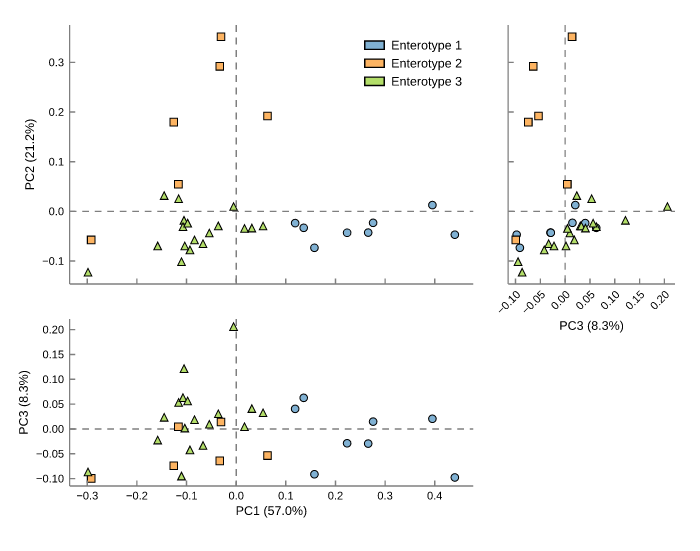
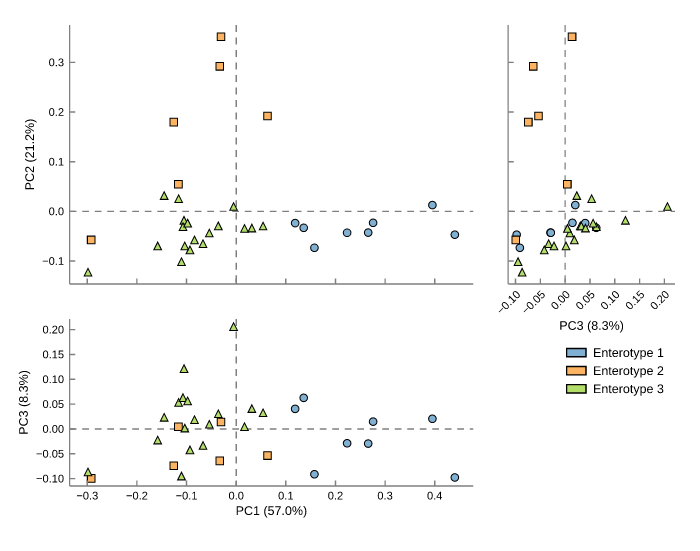
Draw the PCA and PCoA legend in the empty bottom-right cell
With all three panels shown, the legend of the groups goes in the empty
cell below the PC3 against PC2 panel instead of inside the main panel,
where it could cover samples. The legend position is taken within that
cell; a legend larger than the cell makes the figure taller.

Changed region(s): [[0.81, 0.6171, 0.96, 0.7405], [0.51, 0.0617, 0.66, 0.1543]]

diff --git a/crates/stamp-plot/src/pca_plot.rs b/crates/stamp-plot/src/pca_plot.rs
@@ -4,8 +4,9 @@ use stamp_core::stats::pca::{pca_leading, Pca};
 use stamp_core::{GroupProfile, MultiGroupProfile, Profile};
 
 use crate::axes::{
-    group_color, legend, marker_styled, repeated_colors_note, scaled_ticks, x_axis, y_axis,
-    y_axis_width, Frame, LabelRotation, LegendPosition, Marker, AXES_COLOR, INCH,
+    group_color, legend, marker_styled, repeated_colors_note, scaled_ticks, swatch_legend_at,
+    swatch_legend_origin, swatch_legend_size, x_axis, y_axis, y_axis_width, Frame, LabelRotation,
+    LegendPosition, Marker, AXES_COLOR, INCH,
 };
 use crate::axis::Ticks;
 use crate::figure::{Color, Figure, Stroke};
@@ -527,13 +528,15 @@ pub fn plot_ordination(
     }
 
     let dashed = Stroke::dashed(AXES_COLOR, 1.0, 5.0, 4.0);
+    // Draws one panel and returns the y coordinate below its x axis.
     let panel = |figure: &mut Figure,
                  frame: Frame,
                  cx: usize,
                  cy: usize,
                  x_label: bool,
                  y_label: bool,
-                 rotate: bool| {
+                 rotate: bool|
+     -> f64 {
         let (x, y) = (
             frame.x_scale(ticks[cx].min, ticks[cx].max),
             frame.y_scale(ticks[cy].min, ticks[cy].max),
@@ -588,7 +591,7 @@ pub fn plot_ordination(
                 figure.line(&[(*p, frame.bottom), (*p, frame.bottom - 4.0)], stroke);
             }
         }
-        x_axis(
+        let below = x_axis(
             figure,
             &frame,
             &x_ticks,
@@ -613,11 +616,16 @@ pub fn plot_ordination(
                 figure.line(&[(frame.left, p), (frame.left + 4.0, p)], stroke);
             }
         }
+        below
     };
 
     // Neighbouring panels share an axis: PC2 with the panel beside the main
     // one, PC1 with the panel beneath it.
     panel(&mut figure, main, 0, 1, !beneath, true, false);
+    // With all three panels the cell at the bottom right is empty, and the
+    // legend of the groups goes there: `spare` is that cell, from below the
+    // x axis of the panel above it.
+    let mut spare = None;
     if beside {
         let frame = Frame {
             left: main.right + gap,
@@ -625,7 +633,7 @@ pub fn plot_ordination(
             right: main.right + gap + beside_w,
             bottom: main.bottom,
         };
-        panel(
+        let below = panel(
             &mut figure,
             frame,
             2,
@@ -634,6 +642,14 @@ pub fn plot_ordination(
             false,
             options.rotate_pc3_labels,
         );
+        if beneath {
+            spare = Some(Frame {
+                left: frame.left,
+                top: below,
+                right: frame.right,
+                bottom: (main.bottom + gap + beneath_h).max(below),
+            });
+        }
     }
     if beneath {
         let frame = Frame {
@@ -655,7 +671,23 @@ pub fn plot_ordination(
             .enumerate()
             .map(|(i, g)| (g.clone(), data.group_color(i)))
             .collect();
-        legend(&mut figure, &main, &entries, options.legend);
+        match spare {
+            // The place is taken within the empty cell. A legend larger
+            // than the cell is kept below the axis above it and clear of
+            // the panel to its left where the figure has the room, and
+            // the figure grows downwards to hold it.
+            Some(cell) => {
+                if let Some((x, y)) = swatch_legend_origin(&figure, &cell, &entries, options.legend)
+                {
+                    let (legend_width, legend_height) = swatch_legend_size(&entries);
+                    let x = x.max(main.right + 8.0).min(width - 4.0 - legend_width);
+                    let y = y.max(cell.top);
+                    swatch_legend_at(&mut figure, &entries, x, y);
+                    figure.height = figure.height.max(y + legend_height + 4.0);
+                }
+            }
+            None => legend(&mut figure, &main, &entries, options.legend),
+        }
     }
     figure
 }
@@ -731,6 +763,76 @@ mod tests {
         );
         assert_eq!(two.regions.len(), 5);
         assert!(self::texts(&two).contains(&"A".to_string()));
+    }
+
+    #[test]
+    fn the_legend_of_three_panels_is_in_the_empty_cell() {
+        // Where a group's name is written in the legend.
+        let name_at = |figure: &Figure, name: &str| {
+            figure
+                .shapes
+                .iter()
+                .find_map(|s| match s {
+                    Shape::Text { x, y, text, .. } if text == name => Some((*x, *y)),
+                    _ => None,
+                })
+                .unwrap()
+        };
+        let with = |legend: LegendPosition, panels: bool| {
+            plot(
+                &data(6),
+                &Options {
+                    legend,
+                    show_pc3_vs_pc2: panels,
+                    show_pc1_vs_pc3: panels,
+                    ..Options::default()
+                },
+            )
+        };
+        // The panels are drawn main, beside, beneath, five samples each:
+        // the cell is right of the main panel's samples and below those of
+        // the panel beside it.
+        let edges = |figure: &Figure| {
+            let right = figure.regions[..5]
+                .iter()
+                .map(|r| r.x + r.width)
+                .fold(0.0, f64::max);
+            let bottom = figure.regions[5..10]
+                .iter()
+                .map(|r| r.y + r.height)
+                .fold(0.0, f64::max);
+            (right, bottom)
+        };
+        for position in [
+            LegendPosition::Best,
+            LegendPosition::UpperLeft,
+            LegendPosition::LowerRight,
+        ] {
+            let figure = with(position, true);
+            let (right, bottom) = edges(&figure);
+            for name in ["A", "B"] {
+                let (x, y) = name_at(&figure, name);
+                assert!(x > right && y > bottom, "{position:?} {name}");
+                assert!(y < figure.height);
+            }
+        }
+        // The position is taken within the cell.
+        let upper = name_at(&with(LegendPosition::UpperLeft, true), "A");
+        let lower = name_at(&with(LegendPosition::LowerRight, true), "A");
+        assert!(upper.0 < lower.0 && upper.1 < lower.1);
+        // No legend when none is asked for.
+        assert!(!texts(&with(LegendPosition::None, true)).contains(&"A".to_string()));
+
+        // Without the three panels there is no empty cell, and the legend
+        // stays in the main panel.
+        let single = with(LegendPosition::UpperLeft, false);
+        let (x, _) = name_at(&single, "A");
+        let right = single
+            .regions
+            .iter()
+            .map(|r| r.x + r.width)
+            .fold(0.0, f64::max);
+        assert!(x < right);
     }
 
     #[test]

diff --git a/crates/stamp-plot/src/axes.rs b/crates/stamp-plot/src/axes.rs
@@ -649,23 +649,35 @@ pub fn marker_styled(
     }
 }
 
-/// A vertical list of colour swatches with names, in a corner of a frame.
-pub fn legend(
-    figure: &mut Figure,
+/// Width of a swatch, the space between it and its name, and the height
+/// of a line of a legend of colour swatches.
+fn swatch_legend_metrics() -> (f64, f64, f64) {
+    (14.0, 5.0, fonts().legend + 4.0)
+}
+
+/// Width and height of the legend [`legend`] draws for `entries`.
+pub fn swatch_legend_size(entries: &[(String, Color)]) -> (f64, f64) {
+    let (swatch_w, pad, line) = swatch_legend_metrics();
+    let widest = entries
+        .iter()
+        .map(|(name, _)| text::width(name, fonts().legend))
+        .fold(0.0, f64::max);
+    (swatch_w + pad + widest, line * entries.len() as f64)
+}
+
+/// Top-left corner of a legend of colour swatches at `position` in
+/// `frame`; `None` if there is no legend to draw. "Best" is the place that
+/// covers the least of what has been drawn so far.
+pub fn swatch_legend_origin(
+    figure: &Figure,
     frame: &Frame,
     entries: &[(String, Color)],
     position: LegendPosition,
-) {
+) -> Option<(f64, f64)> {
     if position == LegendPosition::None || entries.is_empty() {
-        return;
+        return None;
     }
-    let size = fonts().legend;
-    let (swatch_w, swatch_h, pad, line) = (14.0, 6.0, 5.0, size + 4.0);
-    let widest = entries
-        .iter()
-        .map(|(name, _)| text::width(name, size))
-        .fold(0.0, f64::max);
-    let (width, height) = (swatch_w + pad + widest, line * entries.len() as f64);
+    let (width, height) = swatch_legend_size(entries);
     let place = match position {
         // The clearest place, taking the first of those equally clear.
         LegendPosition::Best => LegendPosition::PLACES
@@ -677,7 +689,14 @@ pub fn legend(
             .unwrap_or(LegendPosition::UpperRight),
         fixed => fixed,
     };
-    let (x, y) = place.origin(frame, width, height);
+    Some(place.origin(frame, width, height))
+}
+
+/// A vertical list of colour swatches with names, its top-left corner at
+/// (`x`, `y`).
+pub fn swatch_legend_at(figure: &mut Figure, entries: &[(String, Color)], x: f64, y: f64) {
+    let (swatch_w, pad, line) = swatch_legend_metrics();
+    let swatch_h = 6.0;
     for (i, (name, color)) in entries.iter().enumerate() {
         let centre = y + line * (i as f64 + 0.5);
         figure.rect(
@@ -694,6 +713,18 @@ pub fn legend(
             name.clone(),
             legend_style().align(HAlign::Left, VAlign::Middle),
         );
+    }
+}
+
+/// A vertical list of colour swatches with names, in a corner of a frame.
+pub fn legend(
+    figure: &mut Figure,
+    frame: &Frame,
+    entries: &[(String, Color)],
+    position: LegendPosition,
+) {
+    if let Some((x, y)) = swatch_legend_origin(figure, frame, entries, position) {
+        swatch_legend_at(figure, entries, x, y);
     }
 }
 

diff --git a/docs/CHANGES_FROM_PYTHON.md b/docs/CHANGES_FROM_PYTHON.md
@@ -105,6 +105,7 @@ Status: **planned** = found, not yet ported. **done** = ported and tested.
 | 59 | done | File > Load profile also opens SingleM condensed profiles and Sandpiper profiles (JSON), and its file dialog accepts several files, which must all be Sandpiper profiles (one sample each). A Sandpiper file is recognised before a BIOM table, since the BIOM check takes any JSON object for a table. Samples left out by the new Sample filter are greyed out in the metadata table, whose own Add/Remove filter and tick boxes work as in v2 within the samples the Sample filter keeps. |
 | 60 | done | Groups beyond the tenth get colours of their own: the palette has twenty colours, v2's ten (unchanged, so existing figures look the same) followed by ten stronger ones (Tableau 10 without its grey, and ColorBrewer Set3's yellow); after twenty they repeat, and the command line warns. v2 (`groupLegendDlg.py`) gave every group after the tenth black, so that, for example, thirteen host groups showed three black groups. |
 | 61 | done | Plots name the p-values they show by the multiple test correction: "Uncorrected p-value" with no correction (or when a plot is set to show the values before correction), "Corrected p-value" after Bonferroni, Holm-Bonferroni or Sidak, and "q-value" after Benjamini-Hochberg or Storey's FDR (`stamp-plot/src/p_values.rs`). v2 wrote "p-value" or "p-value (corrected)" for the family-wise corrections, so that, for example, uncorrected values could be labelled corrected. This covers axis labels, column headings, tooltips and the p-value written on the box, bar and correlation plots; the post-hoc plot calls its p-values corrected (they allow for the number of pairs) except for Welch's (uncorrected). The p-value filter is called "q-value filter" under either false discovery rate, as in v2. Decided by the user (2026-11-15). |
+| 62 | done | PCA and PCoA plots with all three panels draw the legend of the groups in the empty cell at the bottom right of the figure (below the PC3 against PC2 panel), and the legend position (Best, Upper right, ...) is taken within that cell. v2 drew it inside the PC1 against PC2 panel, where it could cover samples. A legend larger than the cell stays below the axis above it and the figure grows downwards to hold it. With fewer than three panels, and for NMDS, the legend is in the main panel as before; a legend of a metadata field or a feature is beside the plot as before. Requested by the user (2026-11-16). |
 
 ## Kept as is
 

diff --git a/docs/site/plots.rst b/docs/site/plots.rst
@@ -682,6 +682,13 @@ direction in which the samples vary most; PC2 the next, at right angles to
 it; and so on. Three panels show PC1 against PC2, PC3 against PC2 and PC1
 against PC3. Each axis gives the share of all variation it captures.
 
+With all three panels shown, the legend of the groups is drawn in the empty
+space at the bottom right, below the PC3 against PC2 panel, so that it never
+covers a sample; *Legend position* in Configure plot then places it within
+that space (upper left, lower right and so on). If one of the two smaller
+panels is switched off there is no such space, and the legend is placed
+within the main panel. The PCoA plot does the same.
+
 .. figure:: images/mg_pca.png
    :width: 90%
 
